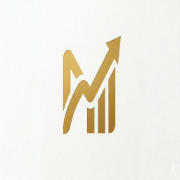
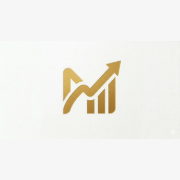
feat(app): pwa improvements

Changed region(s): [[0.3333, 0.1944, 0.6944, 0.75]]

diff --git a/public/sw.js b/public/sw.js
@@ -1,0 +1,75 @@
+const CACHE_NAME = "mixpense-v1";
+const STATIC_ASSETS = [
+  "/",
+  "/favicon.ico",
+  "/favicon.svg",
+  "/favicon-96x96.png",
+  "/apple-touch-icon.png",
+  "/web-app-manifest-192x192.png",
+  "/web-app-manifest-512x512.png",
+];
+
+self.addEventListener("install", (event) => {
+  event.waitUntil(
+    caches
+      .open(CACHE_NAME)
+      .then((cache) => cache.addAll(STATIC_ASSETS))
+      .then(() => self.skipWaiting()),
+  );
+});
+
+self.addEventListener("activate", (event) => {
+  event.waitUntil(
+    caches
+      .keys()
+      .then((keys) =>
+        Promise.all(
+          keys
+            .filter((key) => key !== CACHE_NAME)
+            .map((key) => caches.delete(key)),
+        ),
+      )
+      .then(() => self.clients.claim()),
+  );
+});
+
+self.addEventListener("fetch", (event) => {
+  // Only handle GET requests
+  if (event.request.method !== "GET") return;
+
+  const url = new URL(event.request.url);
+
+  // Skip API routes and Next.js internals
+  if (url.pathname.startsWith("/api/") || url.pathname.startsWith("/_next/")) {
+    return;
+  }
+
+  event.respondWith(
+    caches.match(event.request).then((cached) => {
+      if (cached) return cached;
+
+      return fetch(event.request)
+        .then((response) => {
+          // Only cache successful same-origin responses
+          if (
+            !response ||
+            response.status !== 200 ||
+            response.type !== "basic"
+          ) {
+            return response;
+          }
+          const clone = response.clone();
+          caches
+            .open(CACHE_NAME)
+            .then((cache) => cache.put(event.request, clone));
+          return response;
+        })
+        .catch(() => {
+          // Offline fallback for navigation requests
+          if (event.request.mode === "navigate") {
+            return caches.match("/");
+          }
+        });
+    }),
+  );
+});

diff --git a/src/app/manifest.ts b/src/app/manifest.ts
@@ -1,0 +1,40 @@
+import type { MetadataRoute } from "next";
+
+export default function manifest(): MetadataRoute.Manifest {
+  return {
+    name: "Mixpense – Personal Expense Tracker",
+    short_name: "Mixpense",
+    description:
+      "Track daily expenses, manage budgets, and stay on top of your finances.",
+    start_url: "/",
+    display: "standalone",
+    background_color: "#444000",
+    theme_color: "#b69300",
+    orientation: "portrait",
+    categories: ["finance", "productivity"],
+    icons: [
+      {
+        src: "/favicon.svg",
+        sizes: "any",
+        type: "image/svg+xml",
+      },
+      {
+        src: "/favicon-96x96.png",
+        sizes: "96x96",
+        type: "image/png",
+      },
+      {
+        src: "/web-app-manifest-192x192.png",
+        sizes: "192x192",
+        type: "image/png",
+        purpose: "maskable",
+      },
+      {
+        src: "/web-app-manifest-512x512.png",
+        sizes: "512x512",
+        type: "image/png",
+        purpose: "maskable",
+      },
+    ],
+  };
+}

diff --git a/next.config.ts b/next.config.ts
@@ -6,6 +6,38 @@ const nextConfig: NextConfig = {
       ignore: [/^\/api\/.*/],
     },
   },
+  async headers() {
+    return [
+      {
+        source: "/(.*)",
+        headers: [
+          { key: "X-Content-Type-Options", value: "nosniff" },
+          { key: "X-Frame-Options", value: "DENY" },
+          {
+            key: "Referrer-Policy",
+            value: "strict-origin-when-cross-origin",
+          },
+        ],
+      },
+      {
+        source: "/sw.js",
+        headers: [
+          {
+            key: "Content-Type",
+            value: "application/javascript; charset=utf-8",
+          },
+          {
+            key: "Cache-Control",
+            value: "no-cache, no-store, must-revalidate",
+          },
+          {
+            key: "Content-Security-Policy",
+            value: "default-src 'self'; script-src 'self'",
+          },
+        ],
+      },
+    ];
+  },
 };
 
 export default nextConfig;

diff --git a/src/app/layout.tsx b/src/app/layout.tsx
@@ -66,8 +66,8 @@ export const metadata: Metadata = {
     "Money Manager alternative",
     "free alternative to Spendee",
   ],
-  authors: [{ name: "Mixpense" }],
-  creator: "Mixpense",
+  authors: [{ name: "Vidhu Prakash T P" }],
+  creator: "Vidhu Prakash T P",
   metadataBase: new URL("https://mixpense.vercel.app"),
   openGraph: {
     title: "Mixpense – Personal Expense Tracker",
@@ -77,7 +77,7 @@ export const metadata: Metadata = {
     siteName: "Mixpense",
     images: [
       {
-        url: "/android-chrome-512x512.png",
+        url: "/web-app-manifest-512x512.png",
         width: 512,
         height: 512,
         alt: "Mixpense logo",
@@ -91,21 +91,15 @@ export const metadata: Metadata = {
     title: "Mixpense – Personal Expense Tracker",
     description:
       "Track daily expenses, manage budgets, and stay on top of your finances with Mixpense — free for India.",
-    images: ["/android-chrome-512x512.png"],
+    images: ["/web-app-manifest-512x512.png"],
   },
   icons: {
     icon: [
       { url: "/favicon.ico" },
-      { url: "/favicon-16x16.png", sizes: "16x16", type: "image/png" },
-      { url: "/favicon-32x32.png", sizes: "32x32", type: "image/png" },
+      { url: "/favicon.svg", type: "image/svg+xml" },
+      { url: "/favicon-96x96.png", sizes: "96x96", type: "image/png" },
     ],
     apple: [{ url: "/apple-touch-icon.png" }],
-    other: [
-      {
-        rel: "manifest",
-        url: "/site.webmanifest",
-      },
-    ],
   },
 };
 
@@ -120,6 +114,11 @@ export default function RootLayout({
         className={`${geistSans.variable} ${geistMono.variable} ${fraunces.variable} ${dmMono.variable} antialiased`}
       >
         {children}
+        <script
+          dangerouslySetInnerHTML={{
+            __html: `if ('serviceWorker' in navigator) { window.addEventListener('load', function() { navigator.serviceWorker.register('/sw.js'); }); }`,
+          }}
+        />
       </body>
     </html>
   );